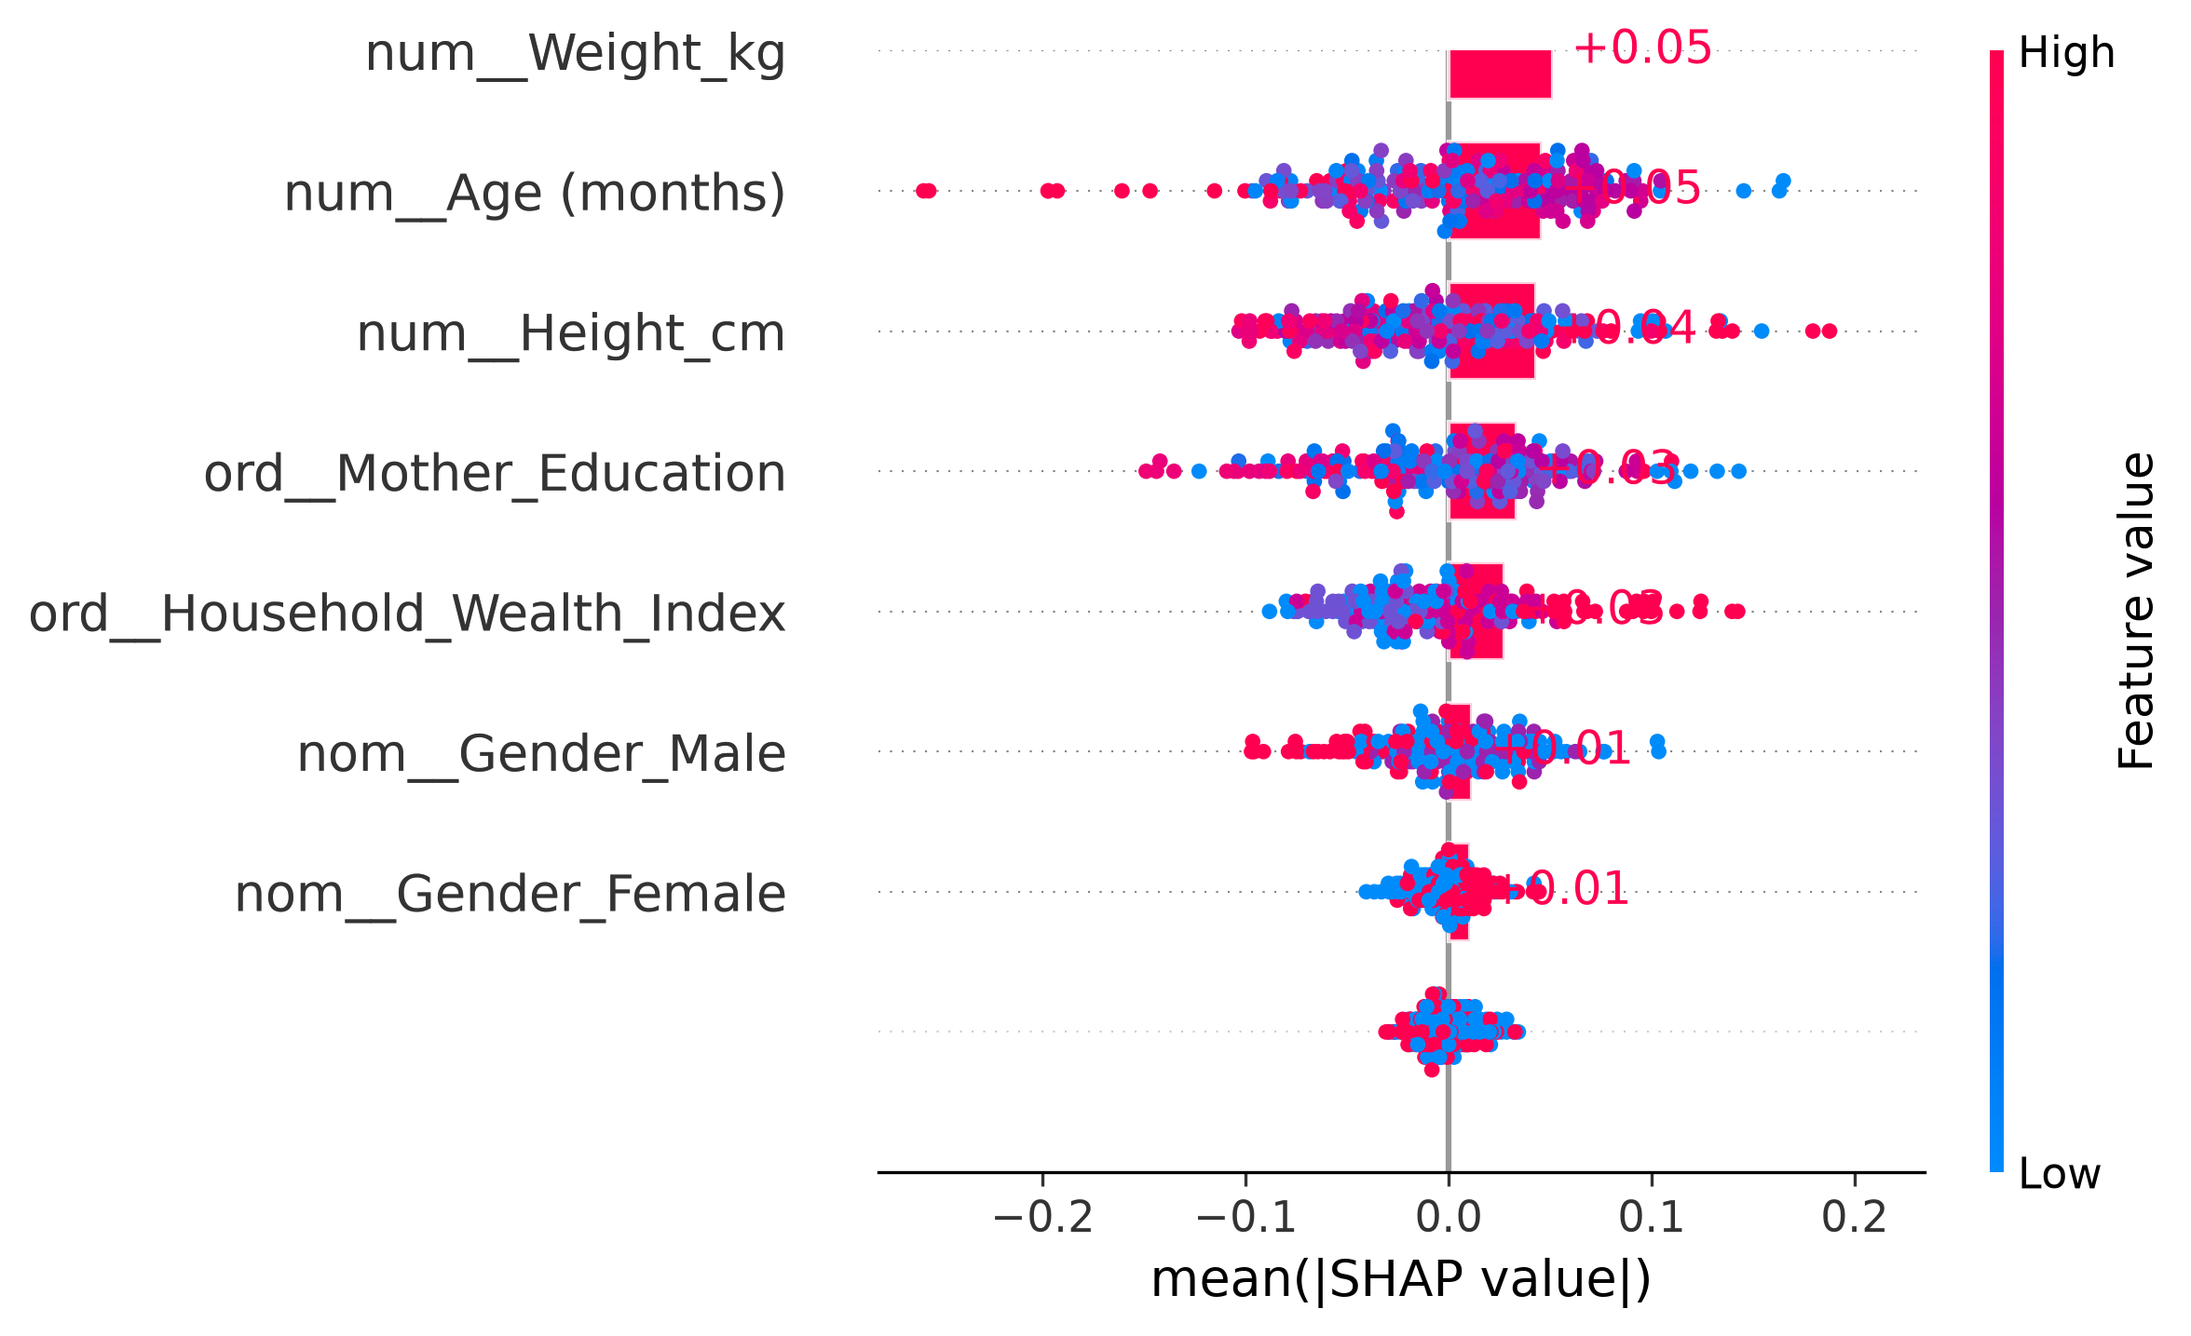
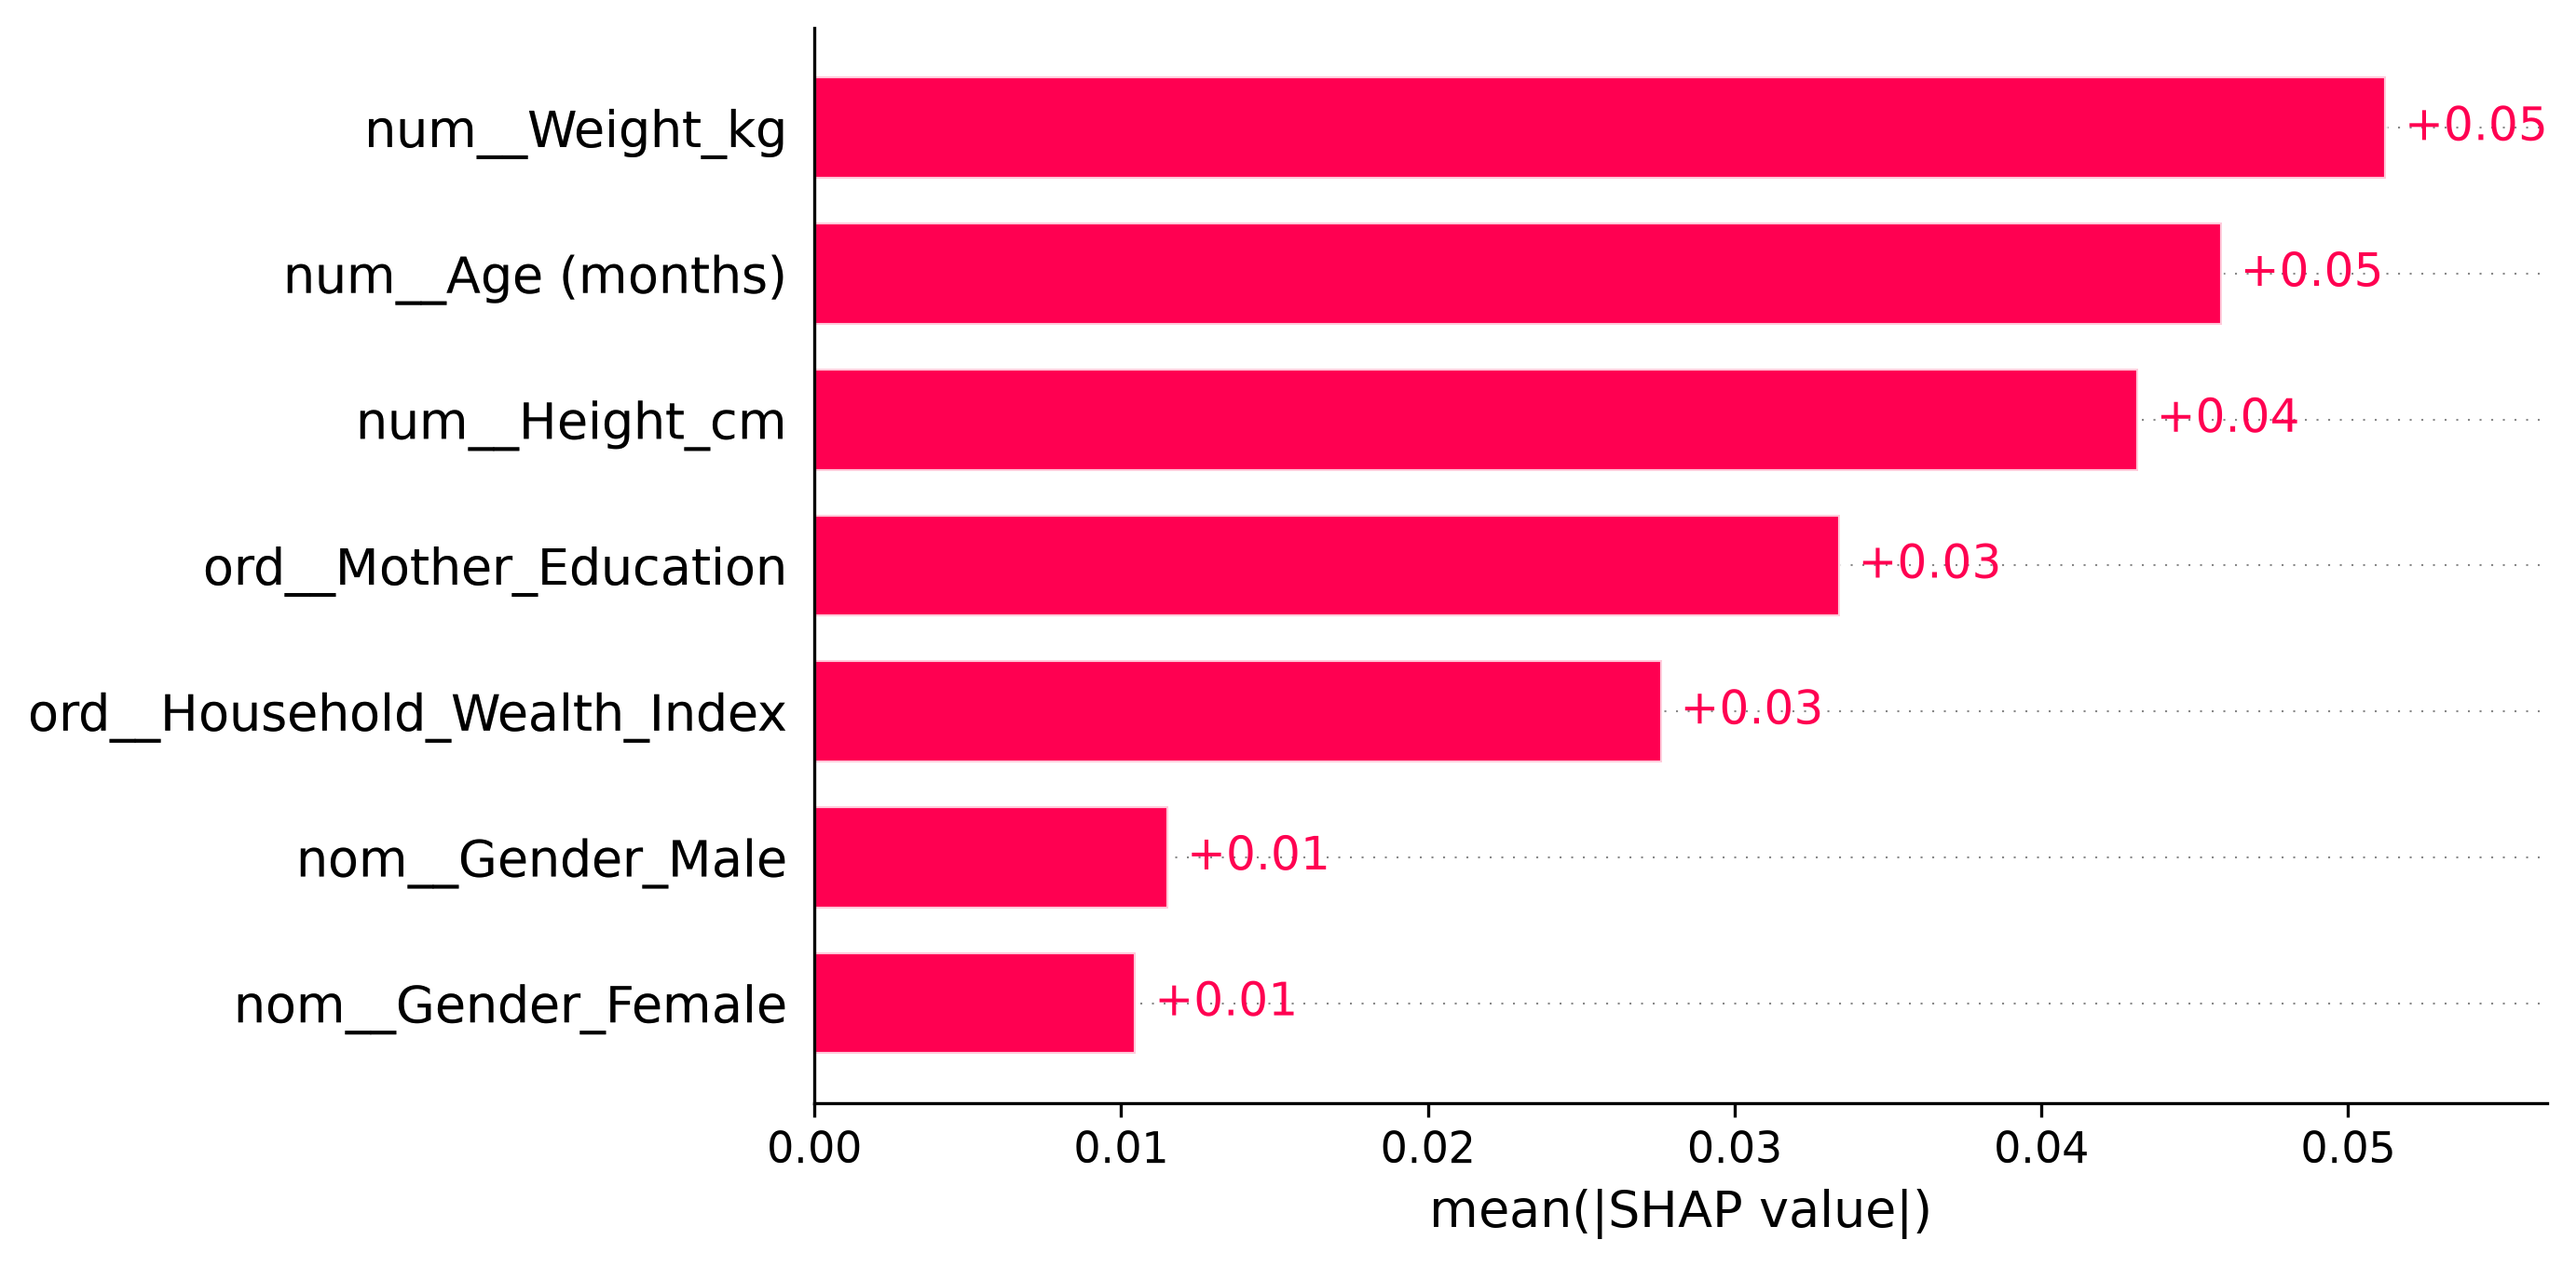
Adding Observation

Changed region(s): [[0.0, 0.0, 0.9932, 0.9875], [0.9622, 0.3395, 0.9932, 0.5863], [0.0931, 0.7715, 0.1241, 0.8024]]

diff --git a/14-Shap-Explainability/shap_explainability.py b/14-Shap-Explainability/shap_explainability.py
@@ -37,23 +37,28 @@ class ChildRiskSHAPExplainer:
         self.shap_values = self.explainer(self.xtest_trans_df)
         print("SHAP values computed successfully with TreeExplainer!")
 
-    def create_summary_plot(self):
-        print("Creating SHAP Summary Plot...")
-        if len(self.shap_values.shape) == 3:
-            shap_data = self.shap_values[:, :, 1]
-        else:
-            shap_data = self.shap_values
-        shap.summary_plot(shap_data, self.xtest_trans_df, show=False)
-        plt.savefig("charts/shap_summary_plot.png",bbox_inches='tight', dpi=300)
-
-    def create_feature_importance_plot(self):
-        print("Creating SHAP Bar Plot...")
+    def shap_value(self):
         if len(self.shap_values.shape) == 3:
             self.shap_data = self.shap_values[:, :, 1]
         else:
             self.shap_data = self.shap_values
-        shap.plots.bar(self.shap_data,show= False)
+        return self.shap_data
+
+    def create_summary_plot(self):
+        print("Creating SHAP Summary Plot...")
+        self.shap_value()
+        shap_data = self.shap_data 
+        shap.summary_plot(shap_data, self.xtest_trans_df, show=False)
+        plt.savefig("charts/shap_summary_plot.png",bbox_inches='tight', dpi=300)
+        plt.close()
+
+    def create_feature_importance_plot(self):
+        print("Creating SHAP Bar Plot...")
+        self.shap_value()
+        shap_data = self.shap_data
+        shap.plots.bar(shap_data,show= False)
         plt.savefig("charts/shap_feature_importance.png",bbox_inches='tight', dpi=300)
+        plt.close()
 
     def explain_single_child(self):
         y_pred=pd.DataFrame([{
@@ -89,21 +94,32 @@ class ChildRiskSHAPExplainer:
 
     def create_waterfall_plot(self, sample_index=0):
         print("Creating Waterfall Plot...")
-        if len(self.shap_values.shape) == 3:
-            shap_data = self.shap_values[:, :, 1]
-        else:
-            shap_data = self.shap_values
-        shap.plots.waterfall(shap_data[sample_index], show=False)
+        self.shap_value()
+        shap_data = self.shap_data
+        shap.plots.waterfall(shap_data [sample_index], show=False)
         plt.savefig(f"charts/shap_waterfall_sample.png", bbox_inches='tight', dpi=300)
         plt.close()
+
+    def explain_high_risk_child(self):
+        print("Prediction: High Risk \n Reasons")
+        print("High weight strongly increased the risk.")
+        print("Less age strongly increased the risk.")
+        print("High Height strongly increased the risk.")
+        print("Low Mother Education strongly increased the risk.")
+        print("Poor nutrition score increased the risk.")
+
+    def explain_low_risk_child(self):
+        print("Prediction: Low Risk \n Reasons")
+        print("Normal BMI reduced the risk.")
+        print("Healthy weight reduced the risk.")
+        print("Appropriate height reduced the risk.")
+        print("Better nutrition score reduced the risk.")
+        print("Older age reduced the risk.")
 
     def save_explanations(self, sample_index=0):
         """Save SHAP explanations to CSV"""
         print('Saving explanations...')
-        if len(self.shap_values.shape) == 3:
-            self.shap_data = self.shap_values[:, :, 1]
-        else:
-            self.shap_data = self.shap_values
+        self.shap_value()
         shap_data = self.shap_data 
         feature_values = self.xtest_trans_df.iloc[sample_index].values
         if len(shap_data.shape) == 2:
@@ -120,6 +136,13 @@ class ChildRiskSHAPExplainer:
         df.to_csv("shap_feature_contributions.csv", index=False)
         print(f"Explanations saved to shap_feature_contributions.csv")
 
+    def write_observations(self):
+        print("Weight is one of the most influential features in the model.")
+        print("Low BMI usually pushes predictions toward High Risk.")
+        print("Some features may affect individual children differently.")
+        print("The most important global feature may not always be the most important feature for one child.")
+        print("The model explanation helps identify why a child was classified as High Risk.")
+
     def display_final_report(self):
         print("===== Child Malnutrition Model Explainability =====")
         self.load_model_and_data()
@@ -129,7 +152,10 @@ class ChildRiskSHAPExplainer:
         self.explain_single_child()
         self.explain_single_child()
         self.create_waterfall_plot()
+        self.explain_high_risk_child()
+        self.explain_low_risk_child()
         self.save_explanations()
+        self.write_observations()
 
 child = ChildRiskSHAPExplainer("x_train.csv", "x_test.csv", "y_test.csv", "Random Forest Model.pkl")
 child.display_final_report()
